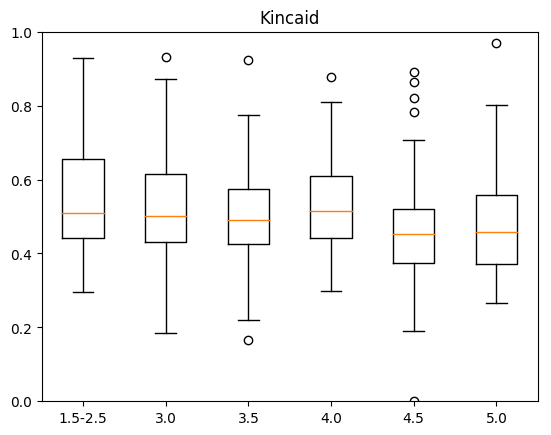
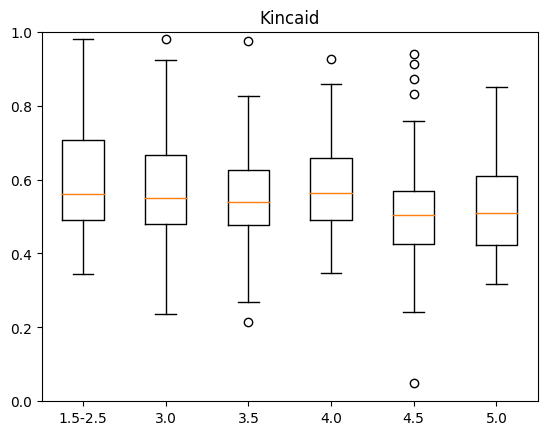
Arregla boxplots

diff --git a/Trabajo Final/unigrams/scripts/doBoxPlots.py b/Trabajo Final/unigrams/scripts/doBoxPlots.py
@@ -35,11 +35,11 @@ def doPlot(vbs, name="fig", path=".", normalize=True):
     if normalize:
         if name == "FleschReadingEase":
             data_to_plot = map(lambda xs: 
-                            map(lambda x: 0.5-((x-min_value)/max_value), xs),
+                            map(lambda x: 0.7-((x-min_value)/max_value), xs),
                             data_to_plot)
         else:
             data_to_plot = map(lambda xs: 
-                            map(lambda x: (x-min_value)/max_value, xs),
+                            map(lambda x: 0.05+(x-min_value)/max_value, xs),
                             data_to_plot)
     
     # Create a figure instance
